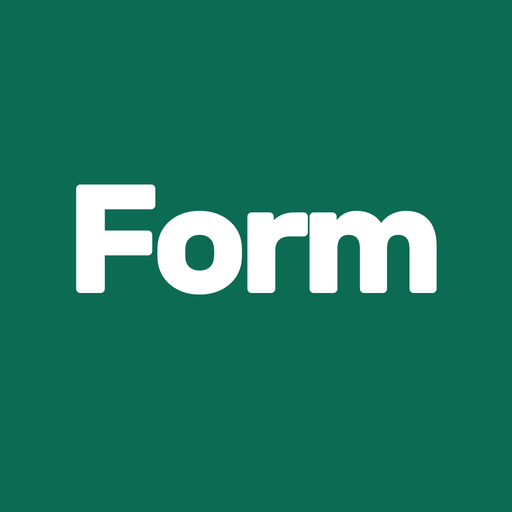
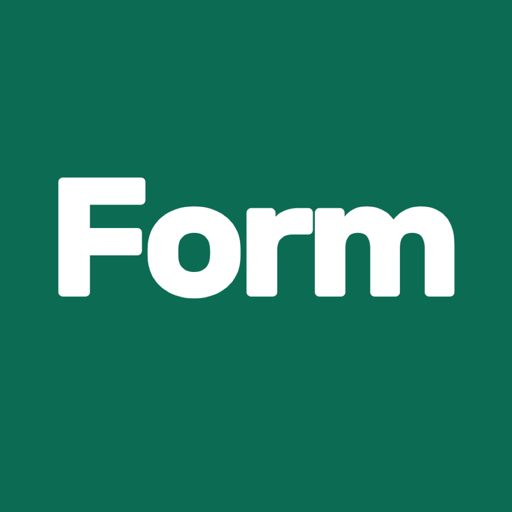
Add files via upload

Changed region(s): [[0.4375, 0.375, 0.9062, 0.5938], [0.0938, 0.3438, 0.4375, 0.5938]]

diff --git a/sw.js b/sw.js
@@ -1,4 +1,4 @@
-const CACHE='form-offline-v15';
+const CACHE='form-offline-v16';
 const FILES=['./','./index.html','./style.css','./app.js','./model.js','./history-panel.js','./manifest.webmanifest?v=8','./icon.svg','./icon-192.png?v=8','./icon-512.png?v=8','./apple-touch-icon.png?v=8','./icon-maskable-512.png?v=8','./favicon.svg?v=8','./favicon-32.png?v=8','./brand.svg','./brand.css?v=8','./workout-features.js','./form-wordmark.svg?v=8','./form-wordmark.png?v=8','./form-app-icon.svg','./form-app-icon.png','./Rubik-Bold.ttf'];
 self.addEventListener('install',event=>event.waitUntil(caches.open(CACHE).then(cache=>cache.addAll(FILES)).then(()=>self.skipWaiting())));
 self.addEventListener('activate',event=>event.waitUntil(caches.keys().then(keys=>Promise.all(keys.filter(k=>k.startsWith('form-offline-')&&k!==CACHE).map(k=>caches.delete(k)))).then(()=>self.clients.claim())));

diff --git a/style.css b/style.css
@@ -100,3 +100,7 @@ nav button{white-space:nowrap;overflow-wrap:normal}
 .set-name{display:flex;flex-direction:column;align-items:center;justify-content:center;gap:2px}
 .set-number{display:grid;place-items:center;width:28px;height:28px;border-radius:50%;background:var(--brand-green);color:white;font-size:.875rem;font-weight:700;line-height:1}
 @media (max-width:600px){.exercise{padding:var(--card-space)}.exercise-head{gap:var(--card-space)}}
+
+/* Keep the brand at the screen edge and scale it without changing its proportions. */
+header{max-width:none;margin:0;padding:28px 16px 20px}
+.brand-logo{transform:translateX(-43px) scale(1.15);transform-origin:left center}
